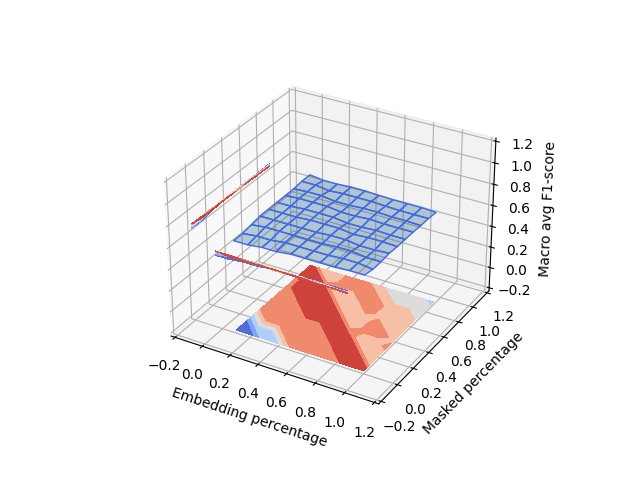
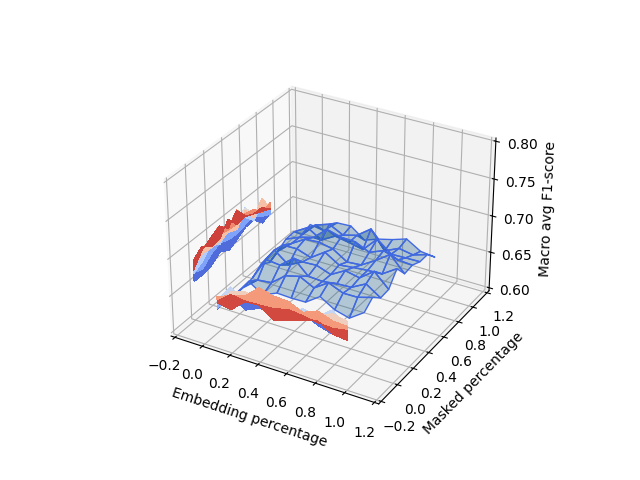
Maybe fixed plots (maybe not)

diff --git a/Encoder_classifier/read_results.py b/Encoder_classifier/read_results.py
@@ -4,6 +4,7 @@ import matplotlib.pyplot as plt
 from mpl_toolkits.mplot3d import axes3d
 from scipy.interpolate import griddata
 from numpy import unique
+from itertools import product
 
 
 
@@ -11,19 +12,23 @@ from numpy import unique
 with open('Encoder_classifier/Models/results.json', 'r') as file:
     results = json.load(file)
 
-X_list = unique(sorted([model['embedding_perc'] for model in results]))
-Y_list = unique(sorted([model['masked_percentage'] for model in results]))
+X_unique = unique(sorted([model['embedding_perc'] for model in results]))
+Y_unique = unique(sorted([model['masked_percentage'] for model in results]))
 
+X_list = []
+Y_list = []
 Z_list = []
-for embedding_perc, masked_percentage in zip(X_list, Y_list):
+
+for embedding_perc, masked_percentage in product(X_unique, Y_unique):
     # check if this is working correctly
     max_f1_score = max([model['report']['macro avg']['f1-score'] for model in results if model['embedding_perc'] == embedding_perc and model['masked_percentage'] == masked_percentage])
     Z_list.append(max_f1_score)
+    X_list.append(embedding_perc)
+    Y_list.append(masked_percentage)
     
-
 #Z_list = [model['report']['macro avg']['f1-score'] for model in results]
 
-X, Y = np.meshgrid(unique(sorted(X_list)), unique(sorted(Y_list)))
+X, Y = np.meshgrid(X_unique, Y_unique)
 
 # Interpola i valori Z per la griglia
 Z = griddata((X_list, Y_list), Z_list, (X, Y), method='nearest') # TODO: Controllare se funzioni
@@ -46,7 +51,7 @@ ax.contourf(X, Y, Z, zdir='z', offset=-0.2, cmap='coolwarm')
 ax.contourf(X, Y, Z, zdir='x', offset=-0.2, cmap='coolwarm')
 ax.contourf(X, Y, Z, zdir='y', offset=-0.2, cmap='coolwarm')
 
-ax.set(xlim=(-0.2, 1.2), ylim=(-0.2, 1.2), zlim=(-0.2, 1.2), xlabel='Embedding percentage', ylabel='Masked percentage', zlabel='Macro avg F1-score')
+ax.set(xlim=(-0.2, 1.2), ylim=(-0.2, 1.2), zlim=(0.6, 0.8), xlabel='Embedding percentage', ylabel='Masked percentage', zlabel='Macro avg F1-score')
 
 plt.savefig('Encoder_classifier/Models/3dPlot.png')
 plt.show()
